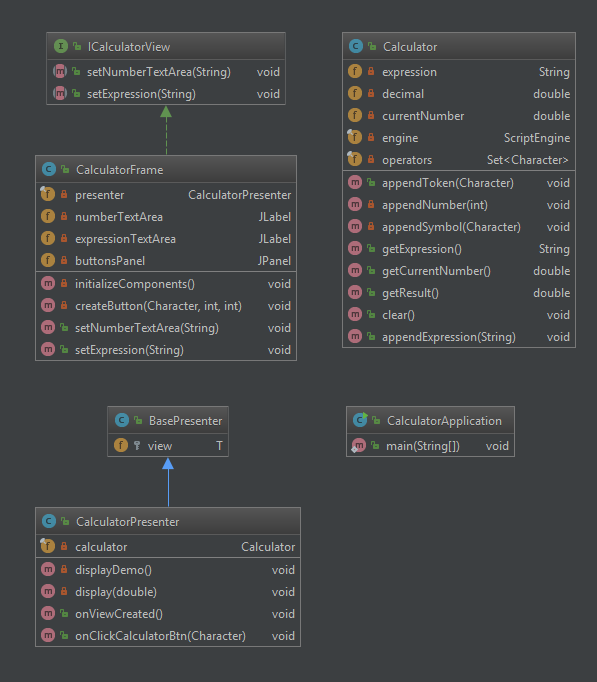
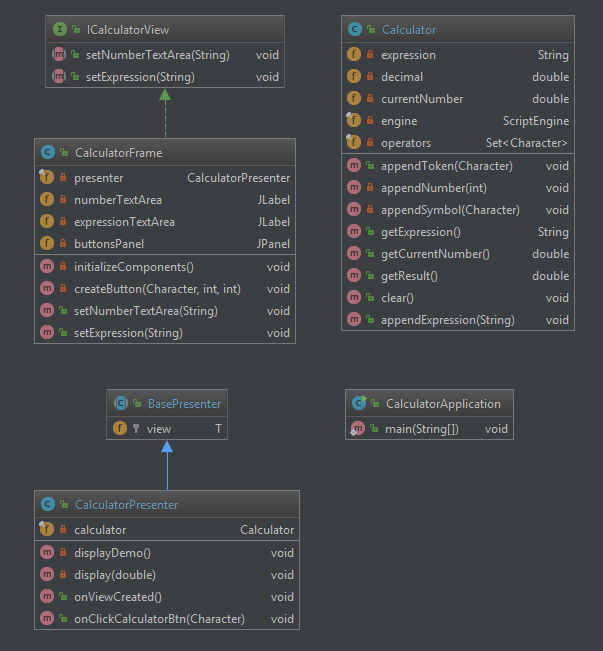
Added some concept changes

diff --git a/src/main/java/models/Calculator.java b/src/main/java/models/Calculator.java
@@ -74,8 +74,8 @@ public class Calculator {
         expression = "";
     }
 
-    public void appendExpression(String demoExpression) {
-        for (char c : demoExpression.toCharArray()) {
+    public void appendExpression(String expression) {
+        for (char c : expression.toCharArray()) {
             if (c != ' ')
                 appendToken(c);
         }

diff --git a/src/main/java/presenters/CalculatorPresenter.java b/src/main/java/presenters/CalculatorPresenter.java
@@ -15,8 +15,7 @@ public class CalculatorPresenter extends BasePresenter<ICalculatorView> {
     }
 
     private void displayDemo() {
-        String demoExpression = "1.2 + 5.2";
-        calculator.appendExpression(demoExpression);
+        calculator.appendExpression("1.2 + 5.2");
         display(calculator.getResult());
         calculator.clear();
     }

diff --git a/src/main/java/presenters/BasePresenter.java b/src/main/java/presenters/BasePresenter.java
@@ -1,6 +1,6 @@
 package presenters;
 
-public class BasePresenter<T> {
+public abstract class BasePresenter<T> {
     protected T view;
 
     public BasePresenter(T view) {
